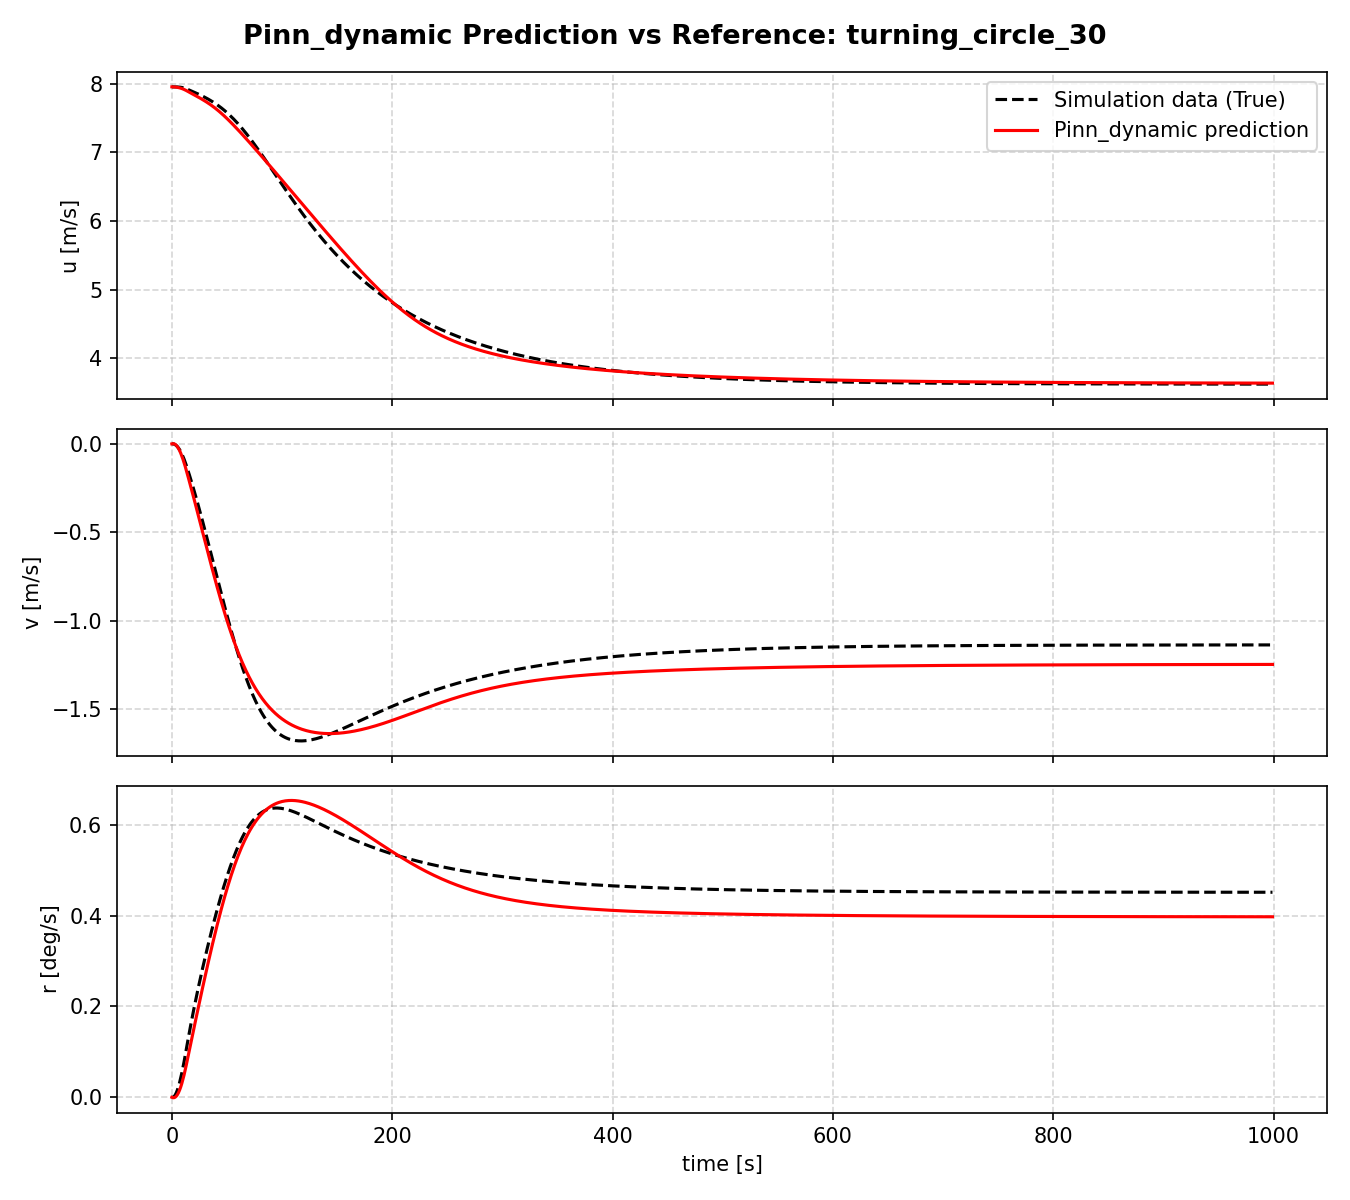
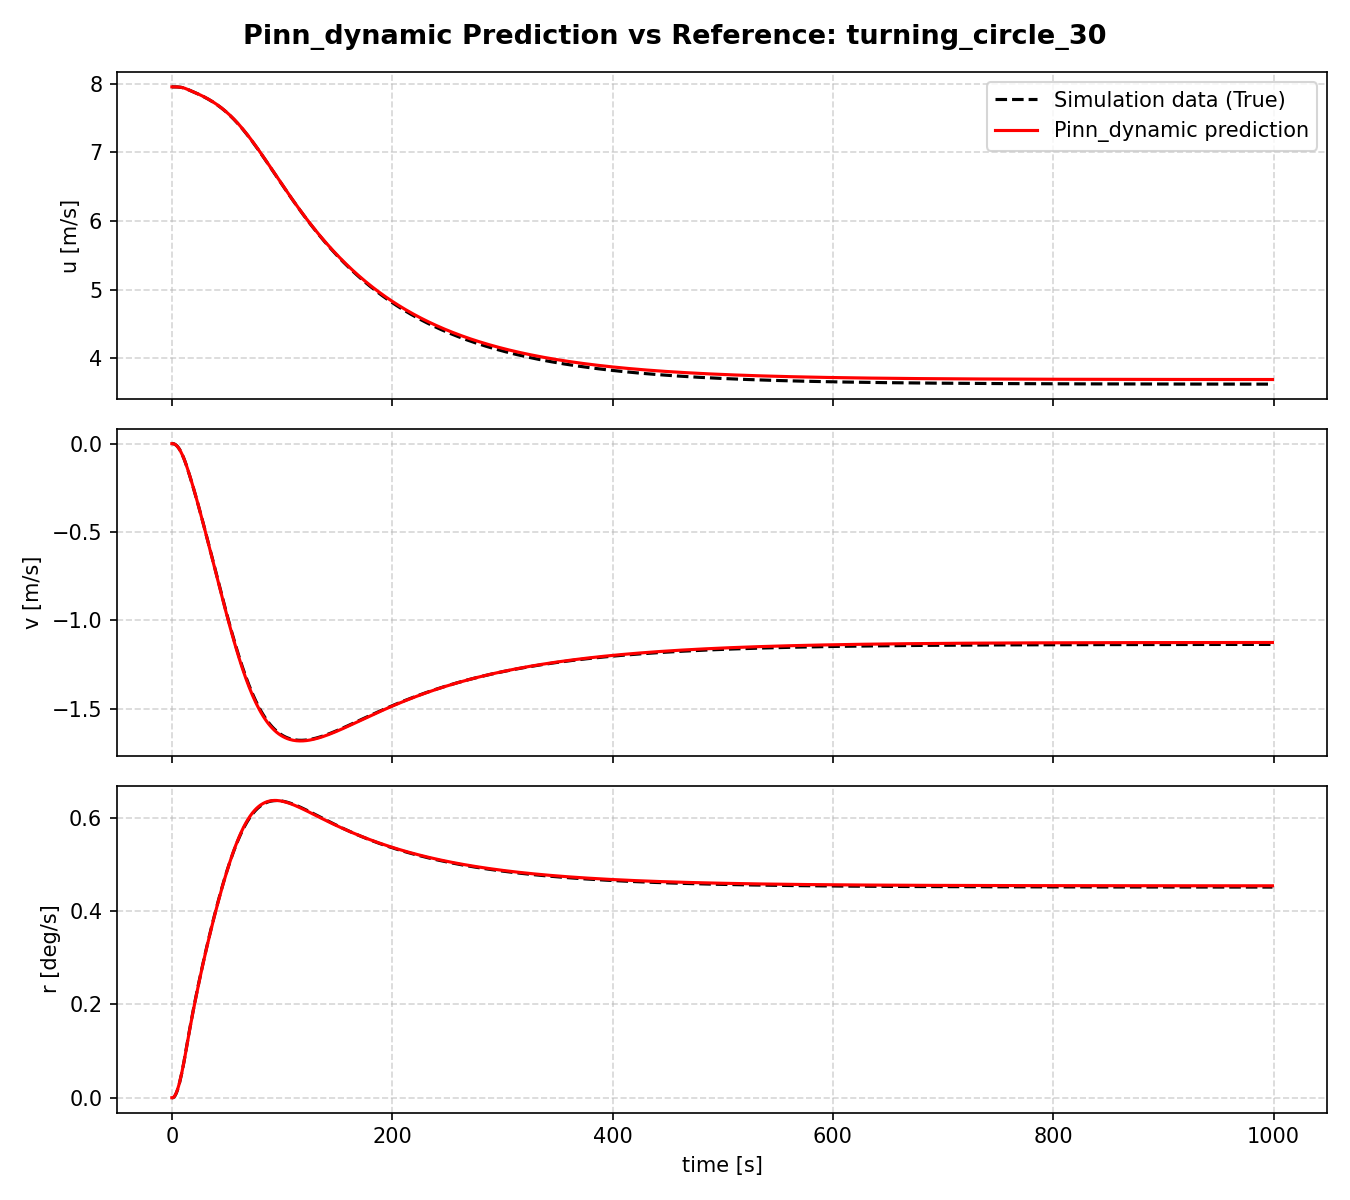
Run main PINN simulation training and save metrics

diff --git a/src/model.py b/src/model.py
@@ -14,6 +14,19 @@ import torch
 import torch.nn as nn
 from src.ship_dynamics import SHIP_PARTICULARS, FIXED_ACCELERATION_DERIVATIVES, ORIGINAL_HYDRODYNAMIC_DERIVATIVES
 
+# Parameter names in fixed order for vectorized computations
+X_PARAM_NAMES = [
+    'Xu_prime', 'Xuu_prime', 'Xvv_prime', 'Xrr_prime', 'Xvr_prime', 'Xdd_prime', 'Xvd_prime', 'Xrd_prime'
+]
+Y_PARAM_NAMES = [
+    'Yv_prime', 'Yvvv_prime', 'Yr_prime', 'Yrrr_prime', 'Yd_prime', 'Ydd_prime', 'Yddd_prime',
+    'Yvrr_prime', 'Yvvr_prime', 'Yud_prime', 'Yvdd_prime', 'Yvvd_prime', 'Yrdd_prime', 'Yrrd_prime'
+]
+N_PARAM_NAMES = [
+    'Nv_prime', 'Nvvv_prime', 'Nr_prime', 'Nrrr_prime', 'Nd_prime', 'Ndd_prime', 'Nddd_prime',
+    'Nvrr_prime', 'Nvvr_prime', 'Nud_prime', 'Nvdd_prime', 'Nvvd_prime', 'Nrdd_prime', 'Nrrd_prime'
+]
+
 
 class ShipMotionNN(nn.Module):
     """
@@ -75,7 +88,7 @@ class ShipPINN(nn.Module):
             for k in ORIGINAL_HYDRODYNAMIC_DERIVATIVES.keys()
         })
 
-        # Fixed parameters (registered as buffers so they move with device but do not require gradients)
+        # Fixed parameters (registered as buffers)
         self.register_buffer('m_prime', torch.tensor(SHIP_PARTICULARS['m_prime'], dtype=torch.float32))
         self.register_buffer('xG_prime', torch.tensor(SHIP_PARTICULARS['xG_prime'], dtype=torch.float32))
         self.register_buffer('Iz_prime', torch.tensor(SHIP_PARTICULARS['Iz_prime'], dtype=torch.float32))
@@ -90,86 +103,86 @@ class ShipPINN(nn.Module):
         """Forward pass through neural network."""
         return self.nn(x_norm)
 
-    def compute_physics_accelerations(self, u, v, r, delta):
+    def precompute_basis(self, inputs_raw):
         """
-        Differentiable computation of physical accelerations via Equations (4) and (5).
-        Inputs are raw physical tensors: u [m/s], v [m/s], r [rad/s], delta [rad].
+        Precomputes the invariant kinematic basis matrices for training samples.
+        Inputs: inputs_raw tensor [N, 4] with columns (u, v, r, delta).
+        Returns a dict of tensors enabling fast O(1) matrix multiplication per step.
         """
-        U = torch.clamp(u, min=1e-4)
+        u = inputs_raw[:, 0]
+        v = inputs_raw[:, 1]
+        r = inputs_raw[:, 2]
+        delta = inputs_raw[:, 3]
 
-        # Non-dimensional states (Prime-I system)
+        U = torch.clamp(u, min=1e-4)
         u_p = u / U
         v_p = v / U
         r_p = r * self.L / U
         delta_u_p = (u - self.U0) / U
         delta_p = delta
 
-        p = self.hydro_params
+        # Basis for f1 (8 terms)
+        phi1 = torch.stack([
+            delta_u_p, delta_u_p**2, v_p**2, r_p**2, v_p * r_p,
+            delta_p**2, v_p * delta_p, r_p * delta_p
+        ], dim=1)
+        f1_const = self.m_prime * self.xG_prime * (r_p**2) + self.m_prime * v_p * r_p
 
-        # Page 4, Equation (4) - Non-dimensional forces f1', f2', f3'
-        f1_p = (
-            p['Xu_prime'] * delta_u_p
-            + p['Xuu_prime'] * (delta_u_p ** 2)
-            + p['Xvv_prime'] * (v_p ** 2)
-            + (self.m_prime * self.xG_prime + p['Xrr_prime']) * (r_p ** 2)
-            + (self.m_prime + p['Xvr_prime']) * v_p * r_p
-            + p['Xdd_prime'] * (delta_p ** 2)
-            + p['Xvd_prime'] * v_p * delta_p
-            + p['Xrd_prime'] * r_p * delta_p
-        )
+        # Basis for f2 and f3 (14 terms)
+        phi2 = torch.stack([
+            v_p, v_p**3, r_p, r_p**3, delta_p, delta_p**2, delta_p**3,
+            v_p * (r_p**2), (v_p**2) * r_p, delta_u_p * delta_p,
+            v_p * (delta_p**2), (v_p**2) * delta_p, r_p * (delta_p**2), (r_p**2) * delta_p
+        ], dim=1)
+        f2_const = -self.m_prime * u_p * r_p
+        f3_const = -self.m_prime * self.xG_prime * u_p * r_p
 
-        f2_p = (
-            -self.m_prime * u_p * r_p
-            + p['Yv_prime'] * v_p
-            + p['Yvvv_prime'] * (v_p ** 3)
-            + p['Yr_prime'] * r_p
-            + p['Yrrr_prime'] * (r_p ** 3)
-            + p['Yd_prime'] * delta_p
-            + p['Ydd_prime'] * (delta_p ** 2)
-            + p['Yddd_prime'] * (delta_p ** 3)
-            + p['Yvrr_prime'] * v_p * (r_p ** 2)
-            + p['Yvvr_prime'] * (v_p ** 2) * r_p
-            + p['Yud_prime'] * delta_u_p * delta_p
-            + p['Yvdd_prime'] * v_p * (delta_p ** 2)
-            + p['Yvvd_prime'] * (v_p ** 2) * delta_p
-            + p['Yrdd_prime'] * r_p * (delta_p ** 2)
-            + p['Yrrd_prime'] * (r_p ** 2) * delta_p
-        )
-
-        f3_p = (
-            -self.m_prime * self.xG_prime * u_p * r_p
-            + p['Nv_prime'] * v_p
-            + p['Nvvv_prime'] * (v_p ** 3)
-            + p['Nr_prime'] * r_p
-            + p['Nrrr_prime'] * (r_p ** 3)
-            + p['Nd_prime'] * delta_p
-            + p['Ndd_prime'] * (delta_p ** 2)
-            + p['Nddd_prime'] * (delta_p ** 3)
-            + p['Nvrr_prime'] * v_p * (r_p ** 2)
-            + p['Nvvr_prime'] * (v_p ** 2) * r_p
-            + p['Nud_prime'] * delta_u_p * delta_p
-            + p['Nvdd_prime'] * v_p * (delta_p ** 2)
-            + p['Nvvd_prime'] * (v_p ** 2) * delta_p
-            + p['Nrdd_prime'] * r_p * (delta_p ** 2)
-            + p['Nrrd_prime'] * (r_p ** 2) * delta_p
-        )
-
-        # Page 4, Equation (5) - Mass matrix determinant & accelerations
         detM = (self.m_prime - self.Y_vdot_p) * (self.Iz_prime - self.N_rdot_p) - \
                (self.m_prime * self.xG_prime - self.Y_rdot_p) * (self.m_prime * self.xG_prime - self.N_vdot_p)
 
+        scale_lin = (U ** 2) / self.L
+        scale_ang = (U ** 2) / (self.L ** 2)
+
+        return {
+            'phi1': phi1,
+            'f1_const': f1_const,
+            'phi2': phi2,
+            'f2_const': f2_const,
+            'f3_const': f3_const,
+            'detM': detM,
+            'scale_lin': scale_lin,
+            'scale_ang': scale_ang
+        }
+
+    def compute_physics_accelerations(self, u, v, r, delta):
+        """
+        Differentiable computation of physical accelerations via Equations (4) and (5).
+        Inputs are raw physical tensors: u [m/s], v [m/s], r [rad/s], delta [rad].
+        """
+        inputs_raw = torch.stack([u, v, r, delta], dim=1) if u.dim() > 0 else torch.stack([u, v, r, delta]).unsqueeze(0)
+        basis = self.precompute_basis(inputs_raw)
+
+        theta1 = torch.stack([self.hydro_params[k] for k in X_PARAM_NAMES])
+        theta2 = torch.stack([self.hydro_params[k] for k in Y_PARAM_NAMES])
+        theta3 = torch.stack([self.hydro_params[k] for k in N_PARAM_NAMES])
+
+        f1_p = torch.matmul(basis['phi1'], theta1) + basis['f1_const']
+        f2_p = torch.matmul(basis['phi2'], theta2) + basis['f2_const']
+        f3_p = torch.matmul(basis['phi2'], theta3) + basis['f3_const']
+
         u_dot_p = f1_p / (self.m_prime - self.X_udot_p)
-        v_dot_p = ((self.Iz_prime - self.N_rdot_p) * f2_p - (self.m_prime * self.xG_prime - self.Y_rdot_p) * f3_p) / detM
-        r_dot_p = ((self.m_prime - self.Y_vdot_p) * f3_p - (self.m_prime * self.xG_prime - self.N_vdot_p) * f2_p) / detM
+        v_dot_p = ((self.Iz_prime - self.N_rdot_p) * f2_p - (self.m_prime * self.xG_prime - self.Y_rdot_p) * f3_p) / basis['detM']
+        r_dot_p = ((self.m_prime - self.Y_vdot_p) * f3_p - (self.m_prime * self.xG_prime - self.N_vdot_p) * f2_p) / basis['detM']
 
-        # Dimensional accelerations
-        u_dot = u_dot_p * (U ** 2) / self.L
-        v_dot = v_dot_p * (U ** 2) / self.L
-        r_dot = r_dot_p * (U ** 2) / (self.L ** 2)
+        u_dot = u_dot_p * basis['scale_lin']
+        v_dot = v_dot_p * basis['scale_lin']
+        r_dot = r_dot_p * basis['scale_ang']
 
+        if u.dim() == 0:
+            return u_dot.squeeze(0), v_dot.squeeze(0), r_dot.squeeze(0)
         return u_dot, v_dot, r_dot
 
-    def compute_loss(self, inputs_norm, targets_norm, inputs_raw, tgt_mean, tgt_std, beta=0.01):
+    def compute_loss(self, inputs_norm, targets_norm, inputs_raw=None, tgt_mean=None, tgt_std=None, beta=0.01, basis=None):
         """
         Computes total loss, observation data loss, and physical residuals.
         Reference: Page 5, Equations (15)-(18).
@@ -177,9 +190,7 @@ class ShipPINN(nn.Module):
         # Neural network forward pass
         pred_norm = self.forward(inputs_norm)
 
-        # 1. Observation Data Loss (Equation 17):
-        # Loss_data = (1/No) * sum( |u_dot_data - u_dot|^2 + |v_dot_data - v_dot|^2 + |r_dot_data - r_dot|^2 )
-        # Summed over 3 components, averaged over No batch samples
+        # 1. Observation Data Loss (Equation 17)
         loss_data = torch.mean(torch.sum((pred_norm - targets_norm) ** 2, dim=-1))
 
         # 2. Destandardize neural network predictions to physical units
@@ -188,15 +199,27 @@ class ShipPINN(nn.Module):
         v_dot_nn = pred_raw[:, 1]
         r_dot_nn = pred_raw[:, 2]
 
-        # 3. Evaluate physical accelerations from current 36 hydrodynamic derivatives
-        u_raw = inputs_raw[:, 0]
-        v_raw = inputs_raw[:, 1]
-        r_raw = inputs_raw[:, 2]
-        delta_raw = inputs_raw[:, 3]
-        u_dot_phy, v_dot_phy, r_dot_phy = self.compute_physics_accelerations(u_raw, v_raw, r_raw, delta_raw)
+        # 3. Evaluate physical accelerations
+        if basis is None:
+            basis = self.precompute_basis(inputs_raw)
+
+        theta1 = torch.stack([self.hydro_params[k] for k in X_PARAM_NAMES])
+        theta2 = torch.stack([self.hydro_params[k] for k in Y_PARAM_NAMES])
+        theta3 = torch.stack([self.hydro_params[k] for k in N_PARAM_NAMES])
+
+        f1_p = torch.matmul(basis['phi1'], theta1) + basis['f1_const']
+        f2_p = torch.matmul(basis['phi2'], theta2) + basis['f2_const']
+        f3_p = torch.matmul(basis['phi2'], theta3) + basis['f3_const']
+
+        u_dot_p = f1_p / (self.m_prime - self.X_udot_p)
+        v_dot_p = ((self.Iz_prime - self.N_rdot_p) * f2_p - (self.m_prime * self.xG_prime - self.Y_rdot_p) * f3_p) / basis['detM']
+        r_dot_p = ((self.m_prime - self.Y_vdot_p) * f3_p - (self.m_prime * self.xG_prime - self.N_vdot_p) * f2_p) / basis['detM']
+
+        u_dot_phy = u_dot_p * basis['scale_lin']
+        v_dot_phy = v_dot_p * basis['scale_lin']
+        r_dot_phy = r_dot_p * basis['scale_ang']
 
         # 4. Physical Residuals (Equation 15):
-        # e1 = |u_dot_phy - u_dot|, e2 = |v_dot_phy - v_dot|, e3 = |r_dot_phy - r_dot|
         e1 = u_dot_phy - u_dot_nn
         e2 = v_dot_phy - v_dot_nn
         e3 = r_dot_phy - r_dot_nn
@@ -208,7 +231,6 @@ class ShipPINN(nn.Module):
         loss_phy = loss_phy_u + loss_phy_v + loss_phy_r
 
         # 6. Total Loss (Equation 18):
-        # Loss = Loss_data + beta * Loss_phy
         total_loss = loss_data + beta * loss_phy
 
         return {

diff --git a/src/train_pinn.py b/src/train_pinn.py
@@ -108,6 +108,9 @@ def train_pinn(iterations=40000, weighting='dynamic', initial_lr=0.001, seed=42,
     # Optimizer optimizes both neural network parameters AND 36 hydrodynamic derivatives jointly
     optimizer = torch.optim.Adam(model.parameters(), lr=initial_lr)
 
+    # Precompute invariant basis matrices for training set (exact O(1) evaluation)
+    basis = model.precompute_basis(X_train_raw)
+
     history = {
         'iteration': [],
         'total_loss': [],
@@ -143,7 +146,8 @@ def train_pinn(iterations=40000, weighting='dynamic', initial_lr=0.001, seed=42,
             inputs_raw=X_train_raw,
             tgt_mean=tgt_mean,
             tgt_std=tgt_std,
-            beta=beta
+            beta=beta,
+            basis=basis
         )
 
         loss_dict['total_loss'].backward()

diff --git a/plan.md b/plan.md
@@ -266,7 +266,13 @@ Acceptance criteria:
 - At least one checkpoint can be saved and reloaded, if checkpointing is needed for the main run.
 - Known issues are documented, not hidden.
 
-### [ ] T7 — Main PINN simulation run
+### [x] T7 — Main PINN simulation run
+**Completed:** 28 October 2026.
+- Executed main simulation run (20,000 iterations, dynamic weighting $\beta = 0.01 \to 0.10$, seed 42) in 387.2 s (6.45 min) on CPU.
+- Total loss converged from $4.953$ to $3.38 \times 10^{-4}$ (Data loss: $3.02 \times 10^{-4}$, Physics residual loss: $3.61 \times 10^{-4}$).
+- Saved checkpoint `outputs/checkpoints/pinn_dynamic.pt` containing model weights, 36 estimated hydrodynamic derivatives, and full loss histories.
+- Saved loss curves to `outputs/plots/pinn_dynamic_loss_curves.png` reproducing the characteristic transient loss balance seen in paper Figure 3b.
+- Evaluated on all 3 held-out test maneuvers with results saved to `outputs/metrics/pinn_dynamic_metrics.md` and `.json`. All 22 tests pass.
 **Target:** 29 October, if the smoke test is stable. **Estimate:** 3–6 hours, depending on the machine.
 
 Actions:

diff --git a/outputs/metrics/pinn_dynamic_metrics.md b/outputs/metrics/pinn_dynamic_metrics.md
@@ -4,6 +4,6 @@ Evaluated via recursive forward Euler time simulation (Equation 6, $\Delta t = 1
 
 | Maneuver | Model | RMSE u [m/s] | RMSE v [m/s] | RMSE r [deg/s] | RMSE r [rad/s] | Sum (with deg/s) |
 |---|---|---|---|---|---|---|
-| `turning_circle_30` | **Pinn_dynamic** | 0.0532 | 0.0955 | 0.0473 | 0.000826 | 0.1960 |
-| `zigzag_20_10` | **Pinn_dynamic** | 0.1664 | 0.1378 | 0.0396 | 0.000692 | 0.3439 |
-| `zigzag_25_5` | **Pinn_dynamic** | 0.2526 | 0.1509 | 0.0782 | 0.001366 | 0.4817 |
+| `turning_circle_30` | **Pinn_dynamic** | 0.0520 | 0.0079 | 0.0022 | 0.000039 | 0.0621 |
+| `zigzag_20_10` | **Pinn_dynamic** | 0.0091 | 0.0121 | 0.0037 | 0.000064 | 0.0249 |
+| `zigzag_25_5` | **Pinn_dynamic** | 0.0283 | 0.0356 | 0.0108 | 0.000188 | 0.0747 |
